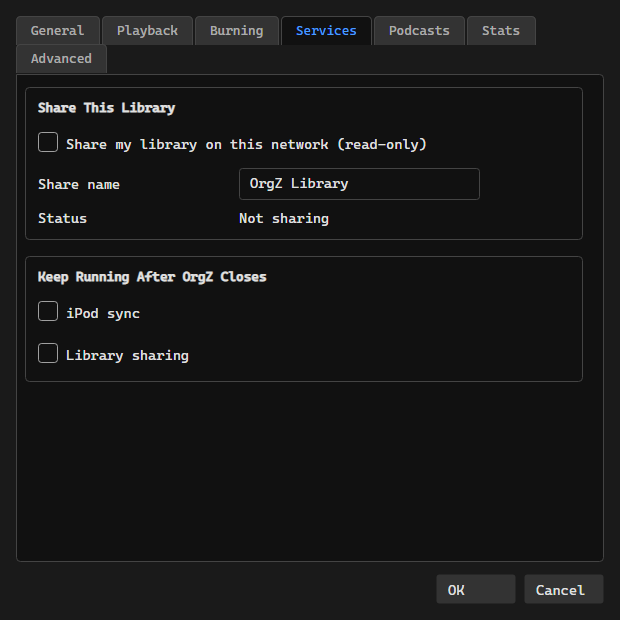
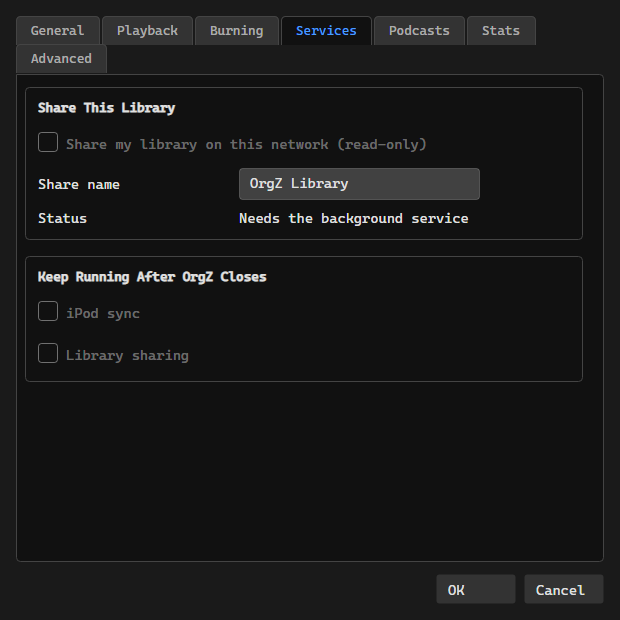
fix: disable every service-dependent control when the service is down

Changed region(s): [[0.0919, 0.2145, 0.7968, 0.3677], [0.0919, 0.5516, 0.3065, 0.5823], [0.0919, 0.4903, 0.2145, 0.521]]

diff --git a/Services/DeviceHelper/DeviceHelperClient.cs b/Services/DeviceHelper/DeviceHelperClient.cs
@@ -18,9 +18,22 @@ public static class DeviceHelperClient
     private static readonly TimeSpan ConnectTimeout = TimeSpan.FromSeconds(2);
     private static readonly TimeSpan CallTimeout = TimeSpan.FromSeconds(45);
 
+    /// <summary>
+    /// Set by the docs screenshot harness. The client talks to a machine-wide named pipe, so
+    /// without this the harness reaches the DEVELOPER'S running service and renders their live
+    /// share - name and all - into a published screenshot, while also making the Services tab
+    /// look connected when the shot is meant to show it idle.
+    /// </summary>
+    internal static bool OfflineForScreenshots { get; set; }
+
     /// <summary>Quick liveness check - is the service installed and answering?</summary>
     public static async Task<bool> IsAvailableAsync()
     {
+        if (OfflineForScreenshots)
+        {
+            return false;
+        }
+
         try
         {
             var pong = await ExchangeAsync(new DeviceHelperProtocol.Request(
@@ -186,6 +199,14 @@ public static class DeviceHelperClient
 
     private static async Task<DeviceHelperProtocol.Response?> ExchangeAsync(DeviceHelperProtocol.Request request)
     {
+        // Gated here as well as in IsAvailableAsync: every other call goes through this one,
+        // so a single check keeps the screenshot harness off the machine-wide pipe entirely
+        // rather than relying on each caller to ask whether the service is up first.
+        if (OfflineForScreenshots)
+        {
+            return null;
+        }
+
         using var cts = new CancellationTokenSource(CallTimeout);
         await using var stream = await OpenAsync(cts.Token);
         await DeviceHelperProtocol.WriteMessageAsync(stream, request, cts.Token);

diff --git a/Views/SettingsDialog.axaml.cs b/Views/SettingsDialog.axaml.cs
@@ -659,8 +659,15 @@ public partial class SettingsDialog : Window
         var state = available ? await Services.DeviceHelper.DeviceHelperClient.ShareStatusAsync() : null;
 
         ShareStatusText.Text = DescribeShareState(available, state);
-        ShareEnabledCheck.IsEnabled = available;
         ShareEnabledCheck.IsChecked = state is { Sharing: true };
+
+        // Everything on this tab needs the background service, not just the share tick. The
+        // keep-alive boxes hand work TO that service, and the share name is the name it would
+        // advertise - with nothing answering, all of it is a control that silently does nothing.
+        ShareEnabledCheck.IsEnabled = available;
+        ShareNameInput.IsEnabled = available;
+        ServiceKeepSyncCheck.IsEnabled = available;
+        ServiceKeepSharingCheck.IsEnabled = available;
     }
 
     private async void ShareEnabled_Click(object? sender, RoutedEventArgs e)

diff --git a/tools/docs-screenshots/Program.cs b/tools/docs-screenshots/Program.cs
@@ -65,6 +65,10 @@ internal static class Program
         // computer name in a published screenshot.
         Settings.Set("OrgZ.Services.Sharing.Name", "OrgZ Library");
 
+        // The device helper listens on a machine-wide pipe, so an unguarded harness reaches the
+        // developer's own running service and renders their live share into the Services shot.
+        OrgZ.Services.DeviceHelper.DeviceHelperClient.OfflineForScreenshots = true;
+
         BuildAvaloniaApp().SetupWithoutStarting();
 
         SeedRemoteImageCache(scratch);
